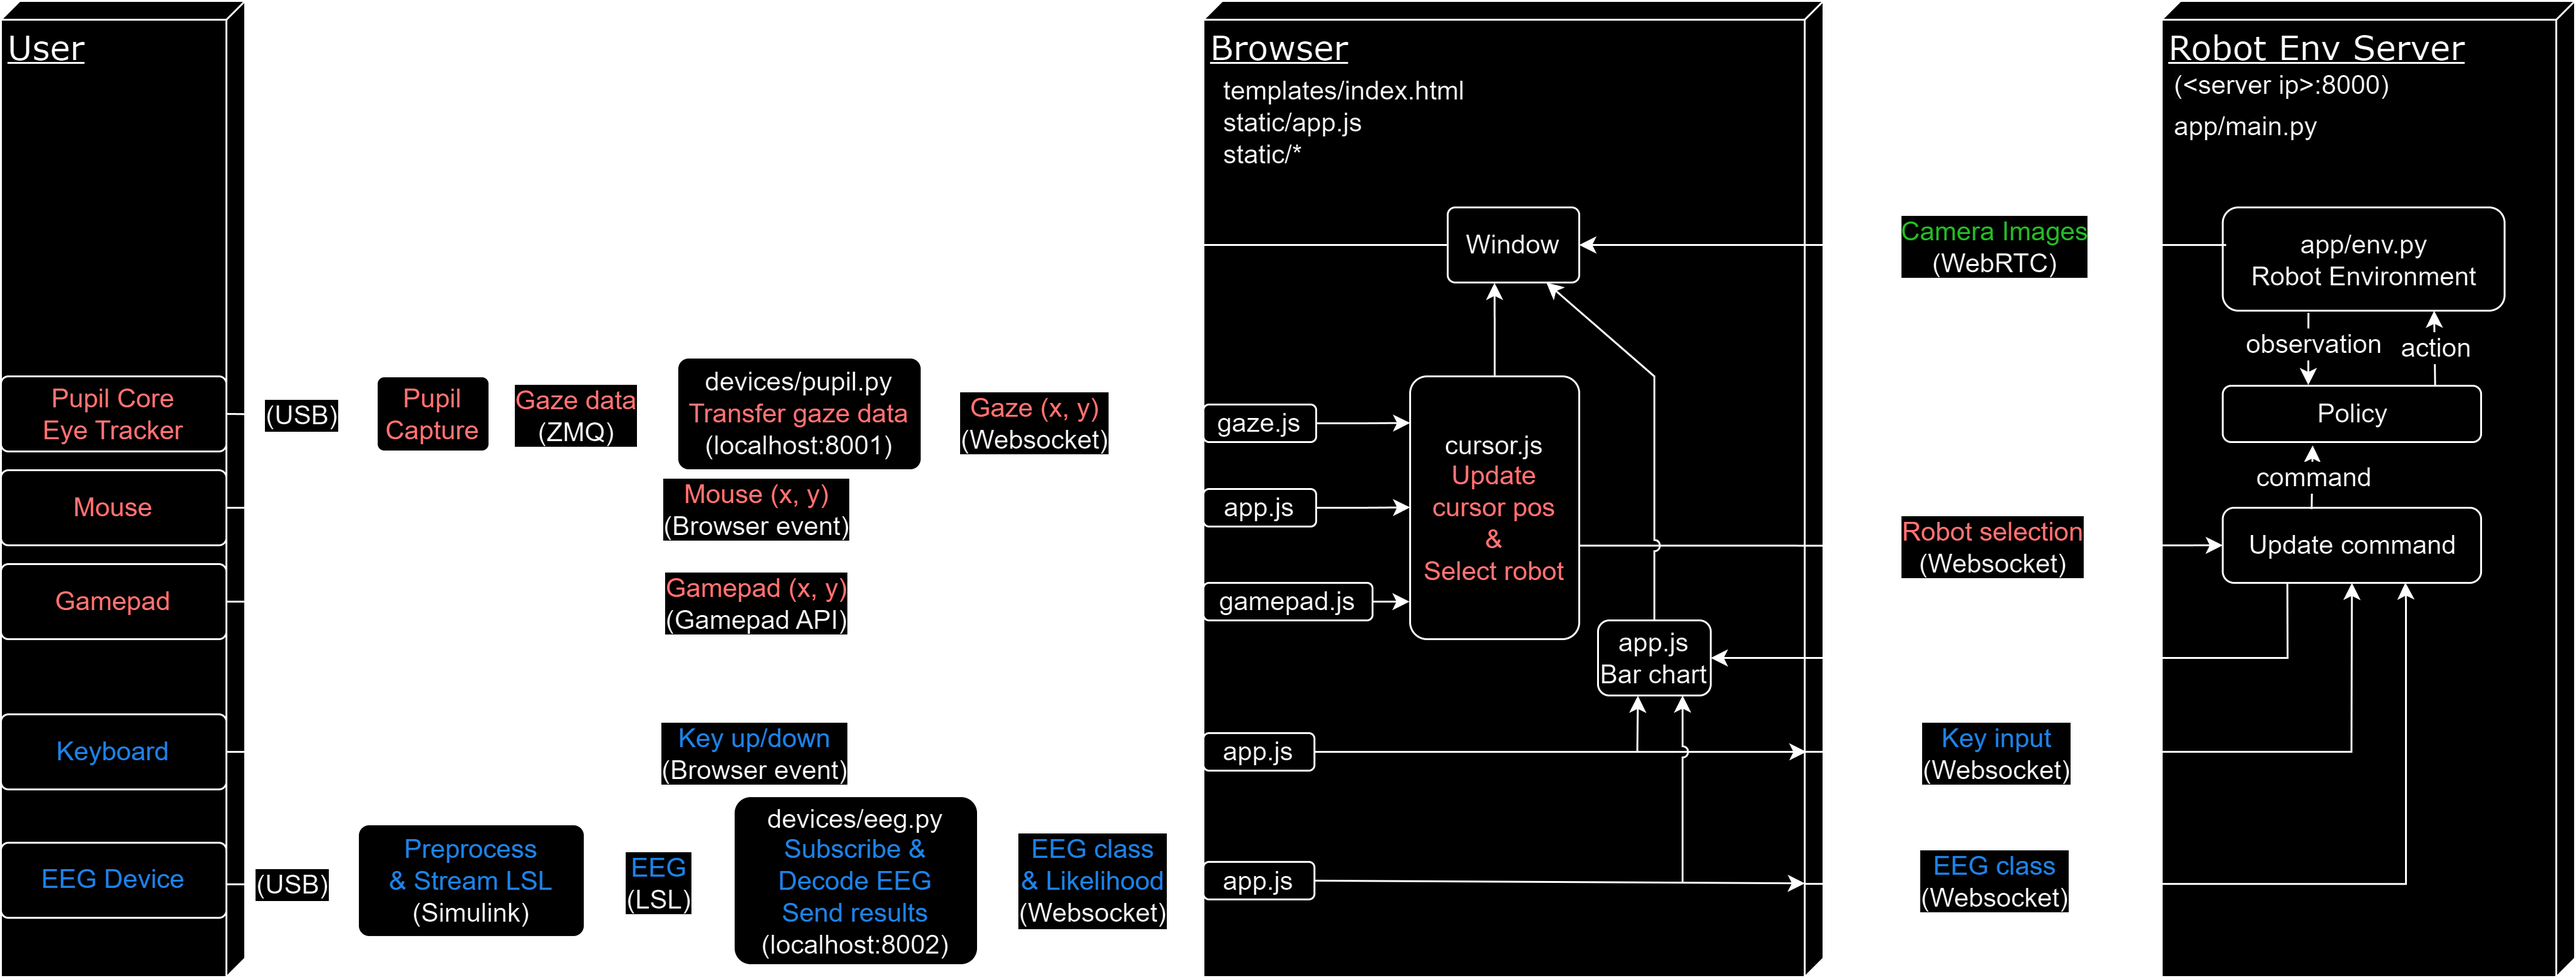
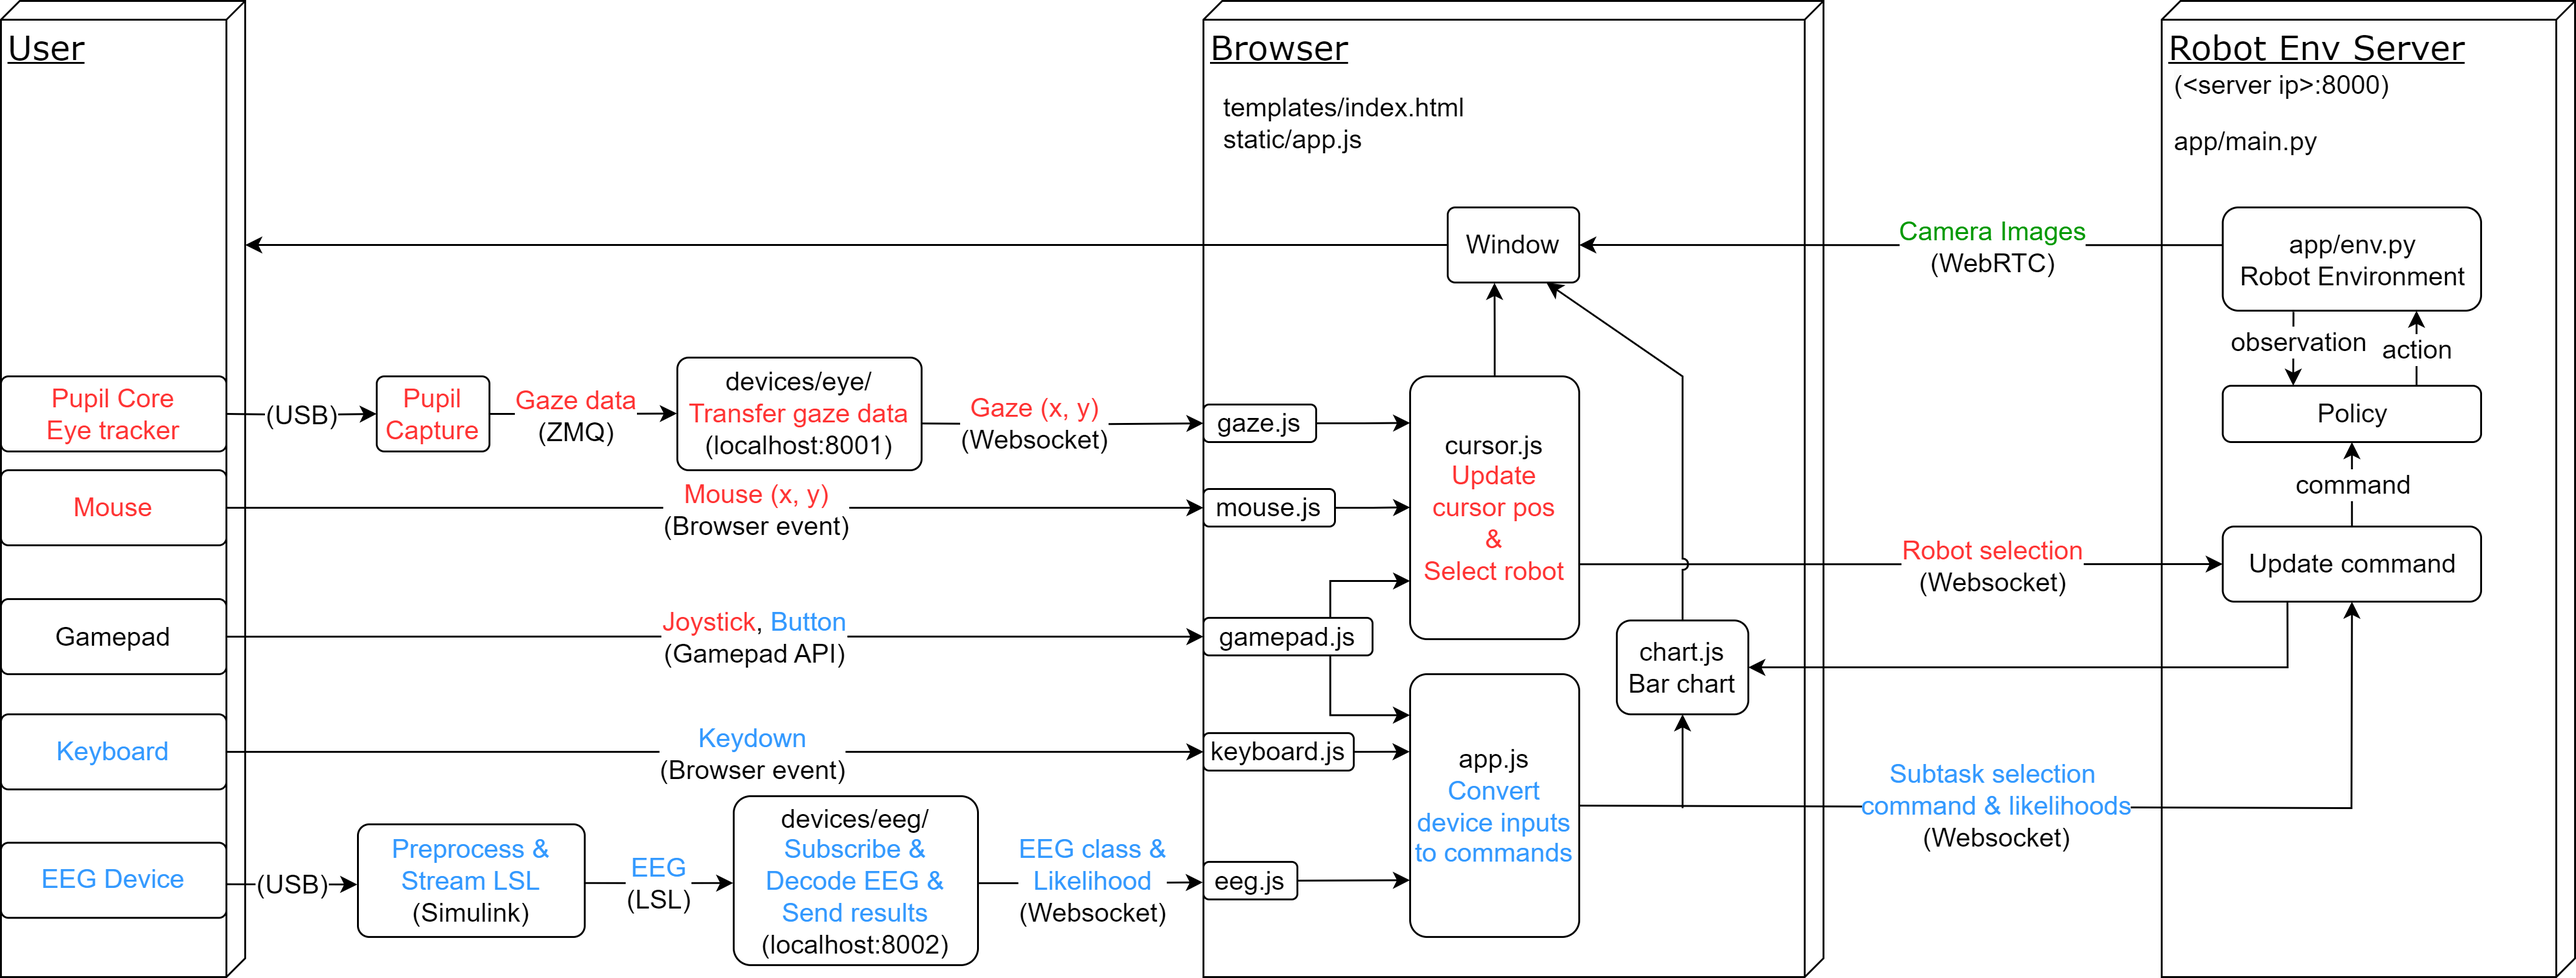
Update readme figures

diff --git a/README.md b/README.md
@@ -2,6 +2,8 @@
 Web UI for the multi-agent robot arm environment
 
 ## Overview
+![web interface image](assets/web_interface.png)
+
 ![overview image](assets/overview.png)
 
 
